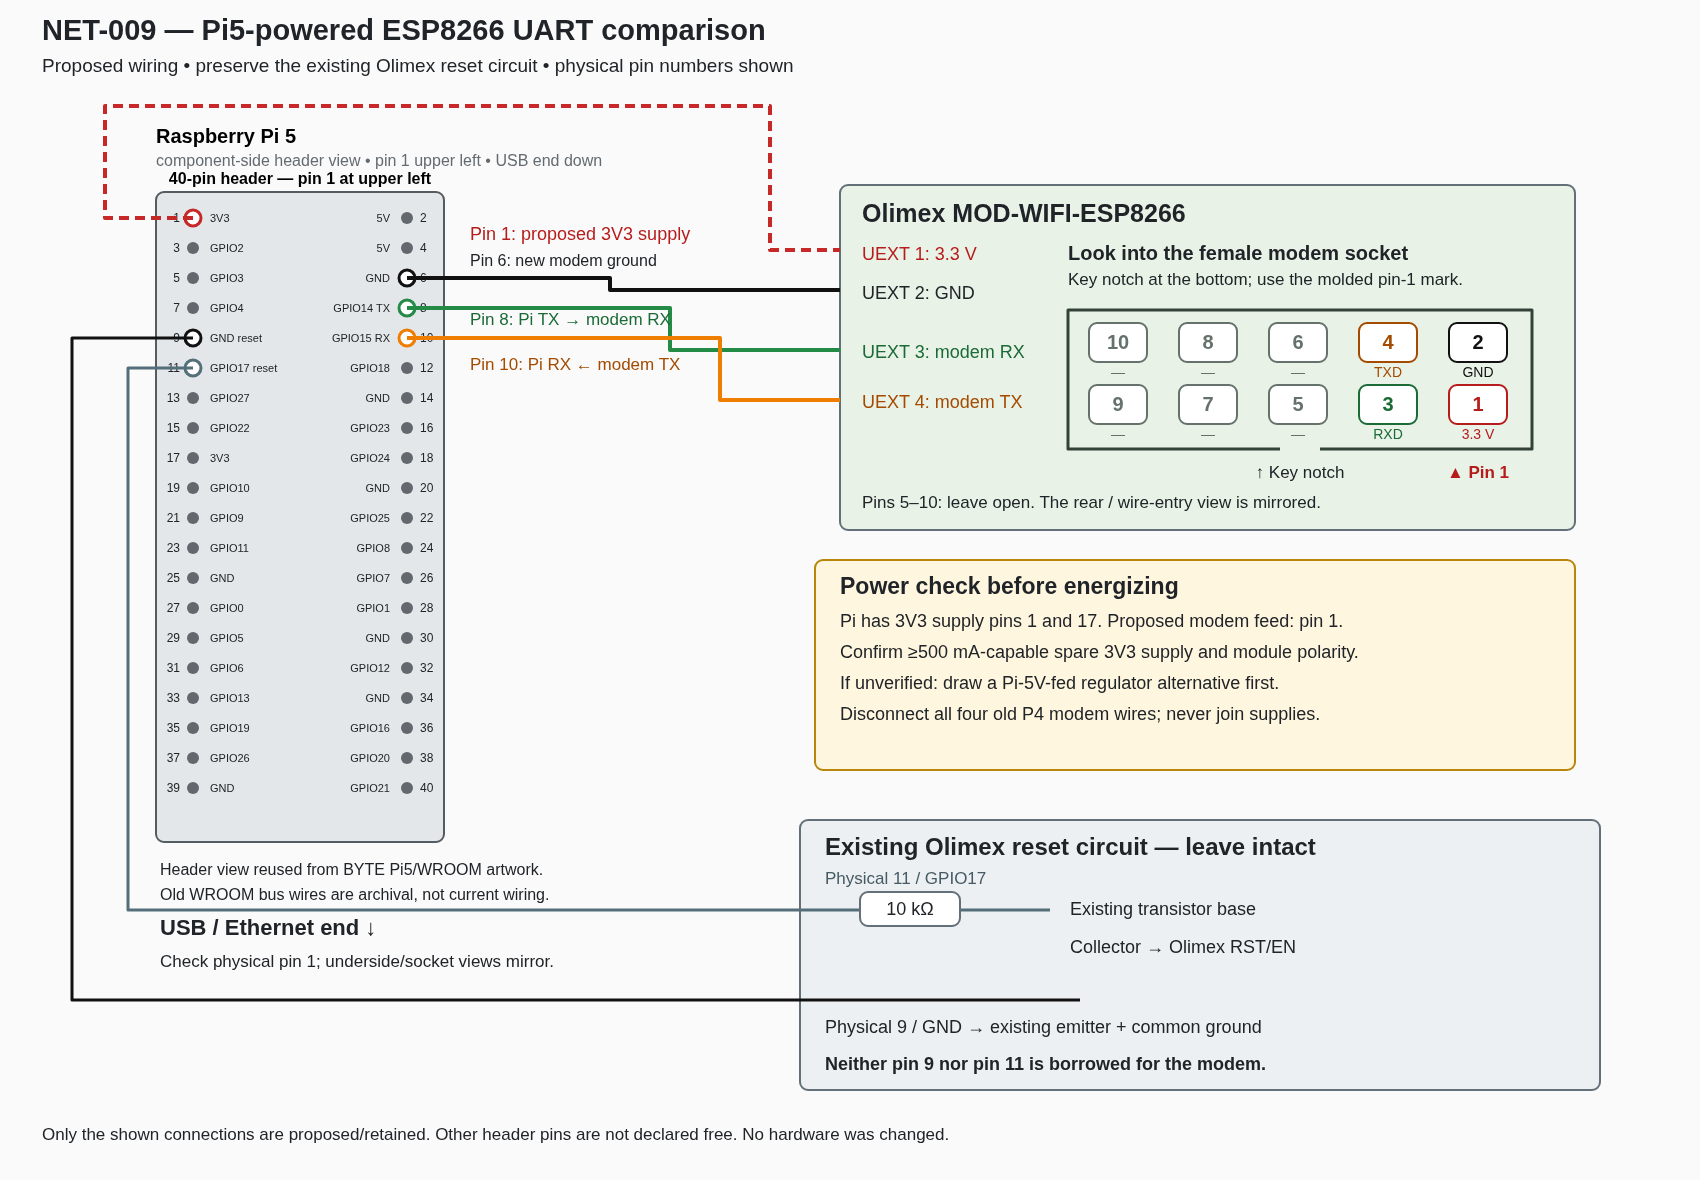
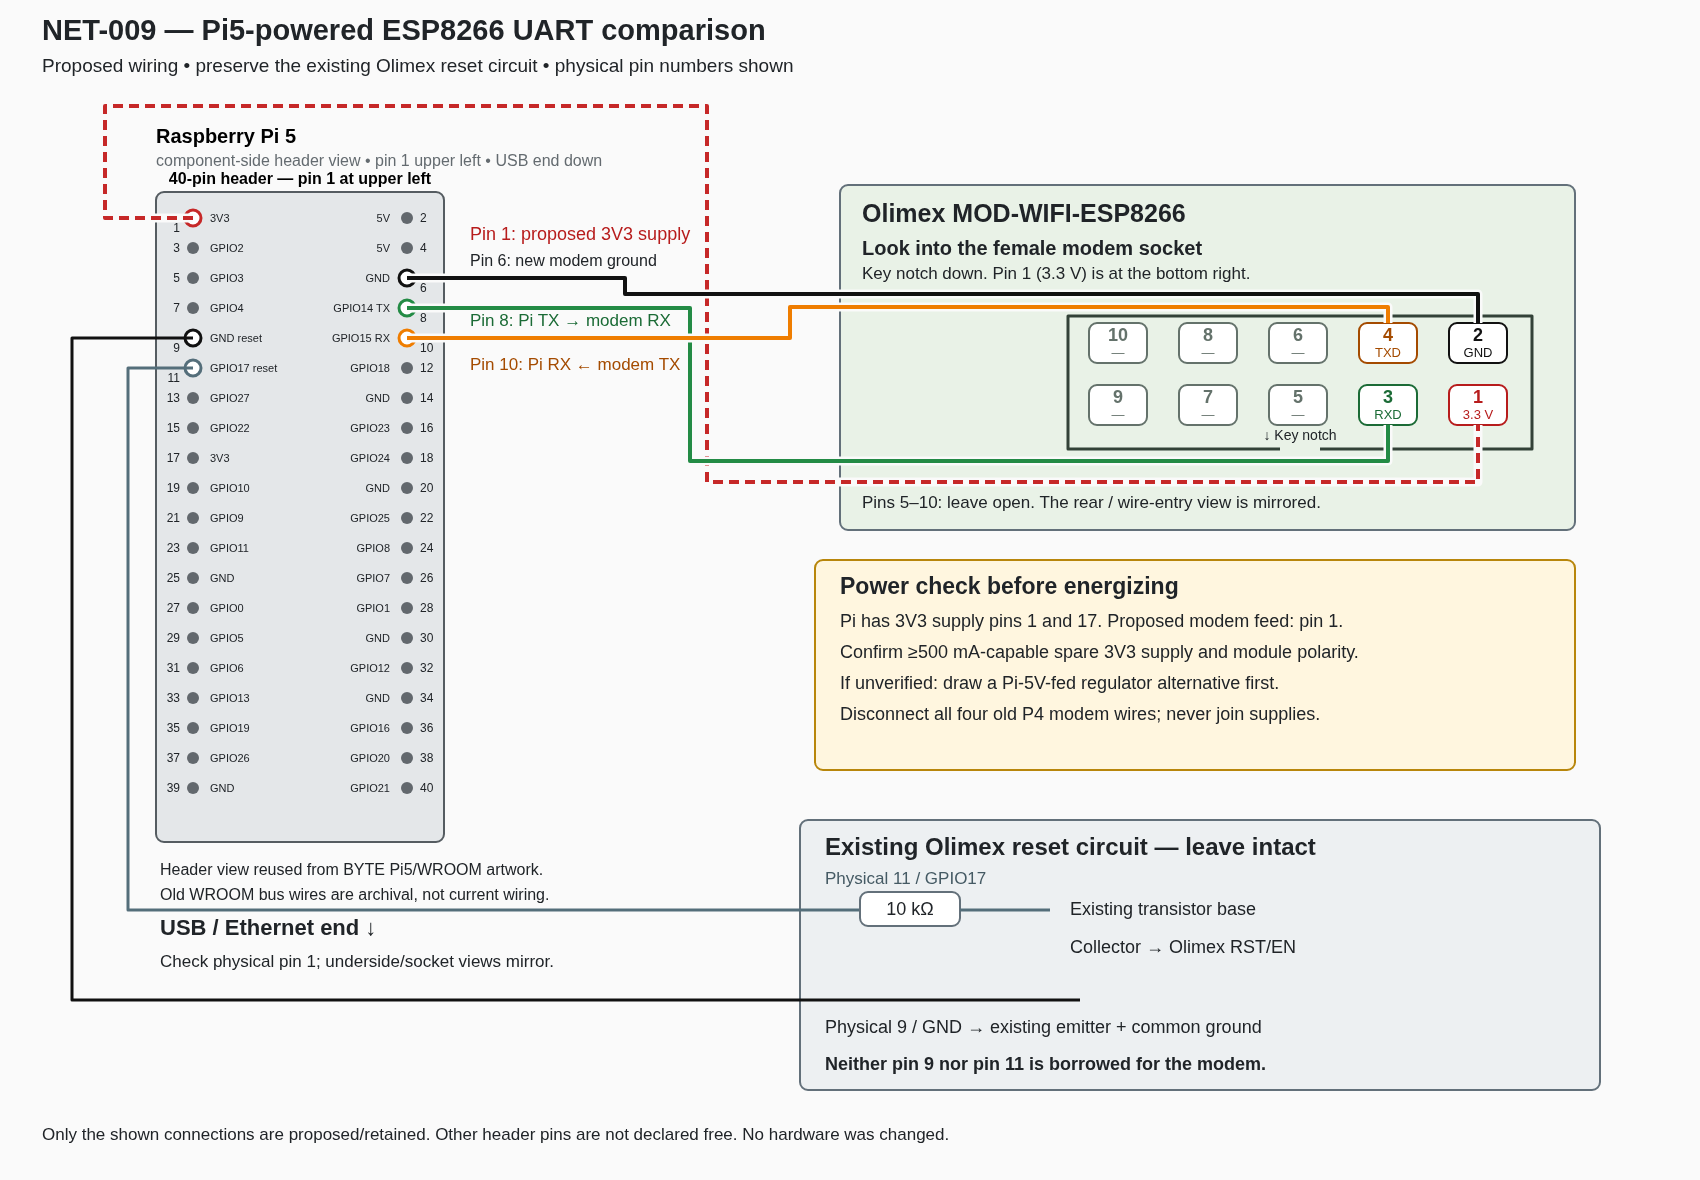
Land Pi5 wires on the actual UEXT socket contacts

Changed region(s): [[0.3429, 0.1831, 0.9041, 0.4271]]

diff --git a/docs/tasks/NET-009/draw_wiring.py b/docs/tasks/NET-009/draw_wiring.py
@@ -32,37 +32,41 @@ r.append(pi)
 labels=['3V3','5V','GPIO2','5V','GPIO3','GND','GPIO4','GPIO14 TX','GND reset','GPIO15 RX','GPIO17 reset','GPIO18','GPIO27','GND','GPIO22','GPIO23','3V3','GPIO24','GPIO10','GND','GPIO9','GPIO25','GPIO11','GPIO8','GND','GPIO7','GPIO0','GPIO1','GPIO5','GND','GPIO6','GPIO12','GPIO13','GND','GPIO19','GPIO16','GPIO26','GPIO20','GND','GPIO21']
 for pin,label in enumerate(labels,1):
  y=218+30*((pin-1)//2);odd=pin%2
- text(180 if odd else 420,y+4,str(pin),12,text_anchor='end' if odd else 'start')
+ text(180 if odd else 420,y+(14 if pin in [1,6,8,9,10,11] else 4),str(pin),12,text_anchor='end' if odd else 'start')
  text(210 if odd else 390,y+4,label,11,text_anchor='start' if odd else 'end')
  if pin in [1,6,8,10,9,11]:
   colour={1:'#c62828',6:'#111',8:'#238b45',10:'#ef7d00',9:'#111',11:'#546e7a'}[pin];r.append(node('circle',cx=193 if odd else 407,cy=y,r=8,fill='white',stroke=colour,stroke_width=3))
 rect(840,185,735,345,fill='#e9f2e7')
 text(862,222,'Olimex MOD-WIFI-ESP8266',25,font_weight='bold')
-text(862,260,'UEXT 1: 3.3 V',18,'#b71c1c')
-text(862,299,'UEXT 2: GND',18)
-text(862,358,'UEXT 3: modem RX',18,'#1b6b36')
-text(862,408,'UEXT 4: modem TX',18,'#a44b00')
-text(1068,260,'Look into the female modem socket',20,font_weight='bold')
-text(1068,285,'Key notch at the bottom; use the molded pin-1 mark.',17)
-# Female mating face, mirrored left to right from the previous drawing.
+text(862,255,'Look into the female modem socket',20,font_weight='bold')
+text(862,279,'Key notch down. Pin 1 (3.3 V) is at the bottom right.',17)
+# Female mating face, mirrored left to right from the male face.
 # The modem is a peripheral: its pins 3/4 are RX/TX, unlike the host legend.
-line([(1280,449),(1068,449),(1068,310),(1532,310),(1532,449),(1320,449)],'#334238',3)
-for row,y in [(2,343),(1,405)]:
- for col in range(5):
-  pin=row+2*(4-col);x=1118+90*col
-  color={1:'#b71c1c',2:'#111',3:'#1b6b36',4:'#a44b00'}.get(pin,'#64726b')
-  rect(x-29,y-20,58,39,'white',color)
-  text(x,y+6,str(pin),20,color,text_anchor='middle',font_weight='bold')
-  text(x,y+34,{1:'3.3 V',2:'GND',3:'RXD',4:'TXD'}.get(pin,'—'),14,color,text_anchor='middle')
-text(1478,478,'▲ Pin 1',17,'#b71c1c',text_anchor='middle',font_weight='bold')
-text(1300,478,'↑ Key notch',17,text_anchor='middle')
+contacts={row+2*(4-col):(1118+90*col,y) for row,y in [(2,343),(1,405)] for col in range(5)}
+line([(1280,449),(1068,449),(1068,316),(1532,316),(1532,449),(1320,449)],'#334238',3)
+text(1300,440,'↓ Key notch',14,text_anchor='middle')
+for pin,(x,y) in contacts.items():
+ color={1:'#b71c1c',2:'#111',3:'#1b6b36',4:'#a44b00'}.get(pin,'#64726b')
+ rect(x-29,y-20,58,40,'white',color)
+ text(x,y-2,str(pin),18,color,text_anchor='middle',font_weight='bold')
+ text(x,y+14,{1:'3.3 V',2:'GND',3:'RXD',4:'TXD'}.get(pin,'—'),13,color,text_anchor='middle')
 text(862,508,'Pins 5–10: leave open. The rear / wire-entry view is mirrored.',17)
-line([(193,218),(105,218),(105,106),(770,106),(770,250),(840,250)],'#c62828',dash='10 6')
-line([(407,278),(610,278),(610,290),(840,290)],'#111')
-line([(407,308),(670,308),(670,350),(840,350)],'#238b45')
-line([(840,400),(720,400),(720,338),(407,338)],'#ef7d00')
+
+# Land on the edge of the numbered contact itself: 2/4 from above,
+# 1/3 from below. A light halo at each crossing means no junction.
+def modem_wire(path,pin,color,dash=None):
+ x,y=contacts[pin]
+ approach=y-20 if pin%2==0 else y+20
+ points=path+[(x,path[-1][1]),(x,approach)]
+ line(points,'#fafafa',9)
+ line(points,color,dash=dash)
+
+modem_wire([(193,218),(105,218),(105,106),(707,106),(707,482)],1,'#c62828','10 6')
+modem_wire([(407,278),(625,278),(625,294)],2,'#111')
+modem_wire([(407,308),(690,308),(690,461)],3,'#238b45')
+modem_wire([(407,338),(790,338),(790,307)],4,'#ef7d00')
 text(470,240,'Pin 1: proposed 3V3 supply',18,'#b71c1c');text(470,266,'Pin 6: new modem ground',16)
-text(470,325,'Pin 8: Pi TX → modem RX',17,'#1b6b36');text(470,370,'Pin 10: Pi RX ← modem TX',17,'#a44b00')
+text(470,326,'Pin 8: Pi TX → modem RX',17,'#1b6b36');text(470,370,'Pin 10: Pi RX ← modem TX',17,'#a44b00')
 rect(815,560,760,210,fill='#fff6df',stroke='#b8860b');text(840,594,'Power check before energizing',23,font_weight='bold');text(840,627,'Pi has 3V3 supply pins 1 and 17. Proposed modem feed: pin 1.',18);text(840,658,'Confirm ≥500 mA-capable spare 3V3 supply and module polarity.',18);text(840,689,'If unverified: draw a Pi-5V-fed regulator alternative first.',18);text(840,720,'Disconnect all four old P4 modem wires; never join supplies.',18)
 rect(800,820,800,270,fill='#edf0f2');text(825,855,'Existing Olimex reset circuit — leave intact',24,font_weight='bold')
 line([(193,368),(128,368),(128,910),(860,910)],'#546e7a',3)

diff --git a/docs/development/2026-11-16.md b/docs/development/2026-11-16.md
@@ -13,3 +13,6 @@ Smith’s Console8 power check exposed a left–right reversal in the wiring
 sheet. Corrected the female mating-face drawing and pin-1 marker, and replaced
 the ambiguous connector reference with the explicitly labeled MOD-IO2 manual.
 The Pi and modem signal assignments are unchanged.
+
+The wires now terminate on the numbered socket contacts: GND and modem TX
+on the upper row, and 3.3 V and modem RX on the lower row.
